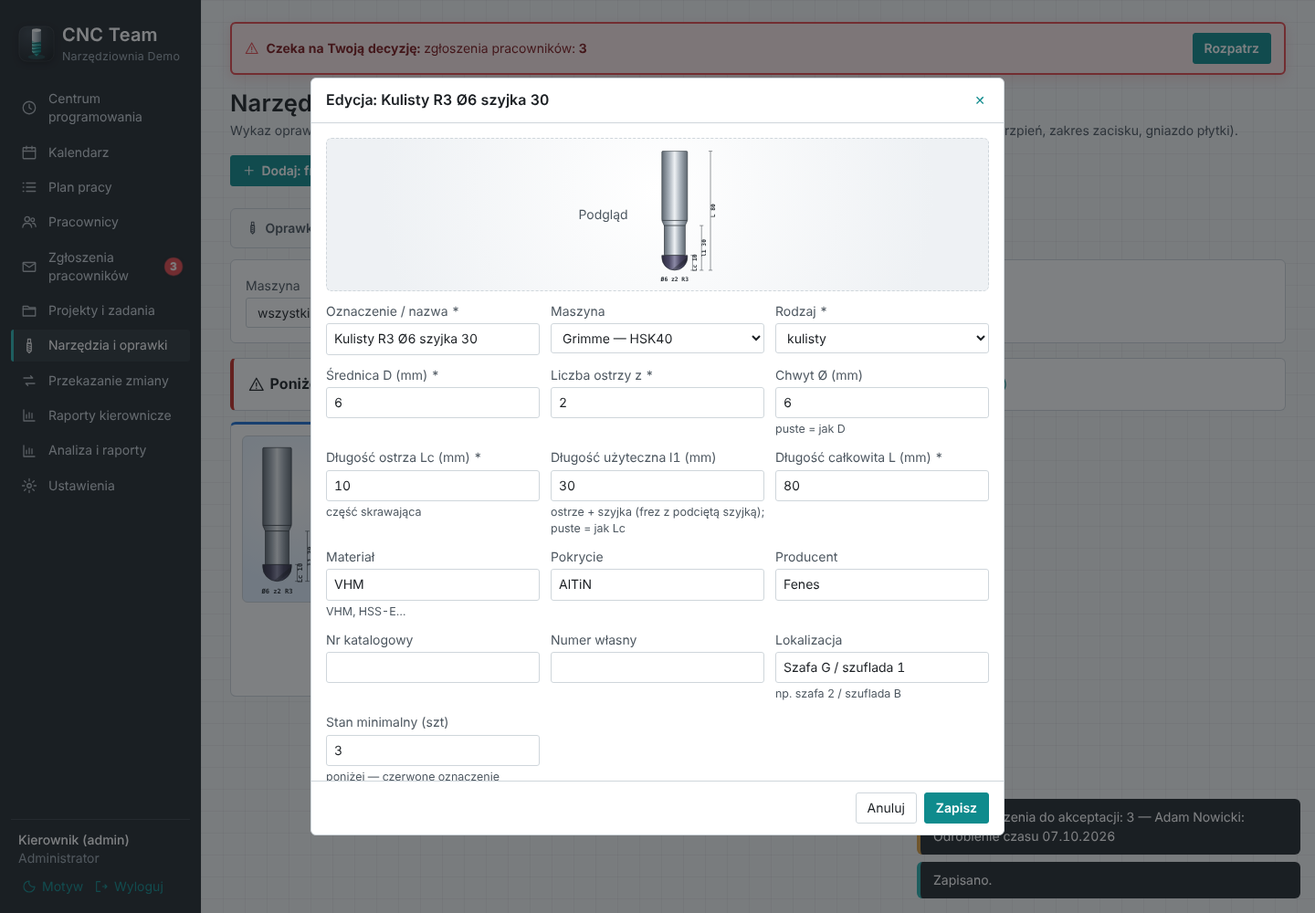
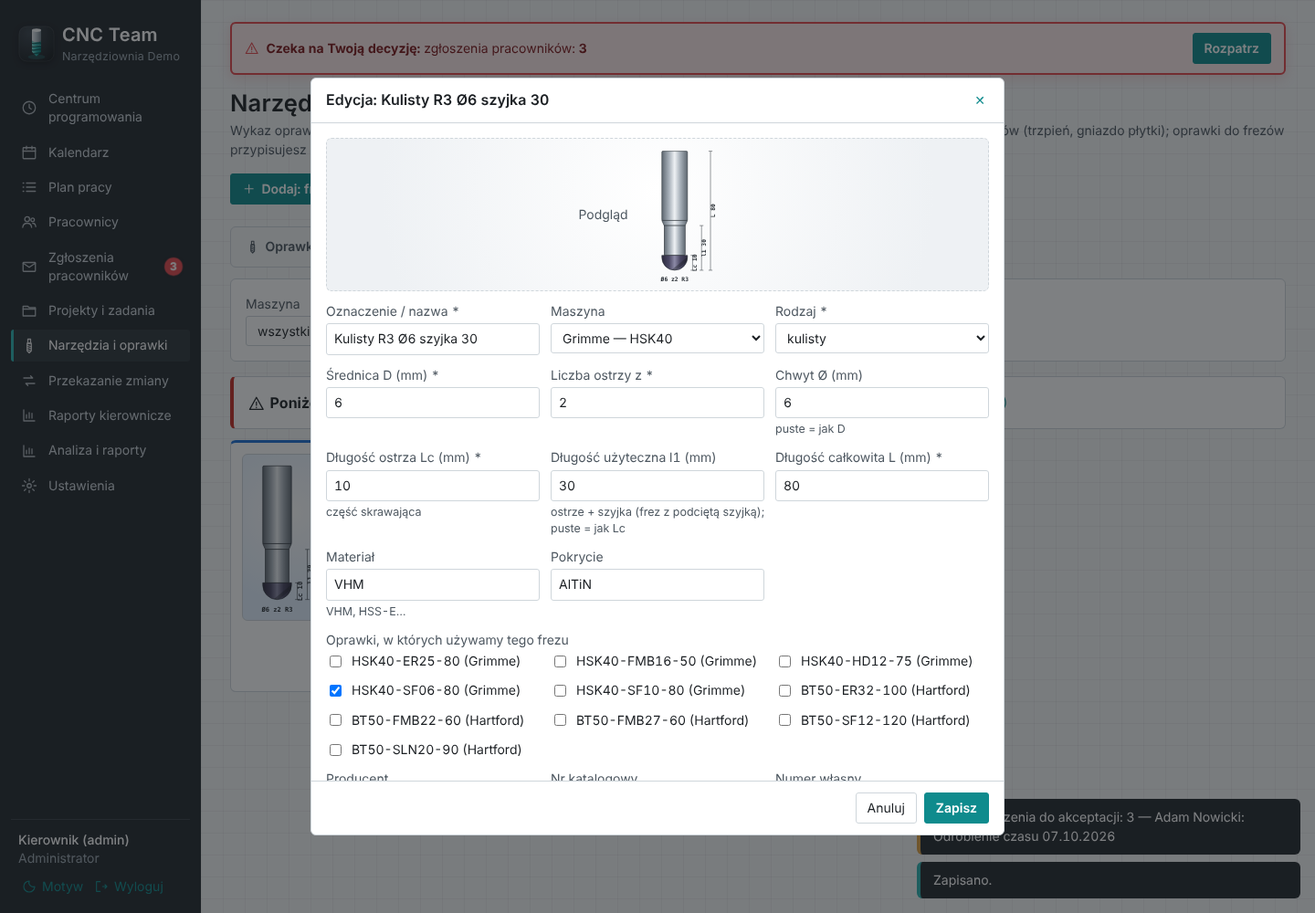
Frezy: oprawki przypisywane ręcznie zamiast automatycznego dopasowania (0.15.2)
Claude-Session: https://claude.ai/code/session_01Mgo9RDb6yKEqWF3PSmGbbJ

diff --git a/public/views-tools.js b/public/views-tools.js
@@ -300,7 +300,7 @@ VIEWS.narzedzia = async (main) => {
   const link = (patch) => { const n = new URLSearchParams(q); for (const [k, v] of Object.entries(patch)) { if (v) n.set(k, v); else n.delete(k); } return `#/narzedzia?${n}`; };
 
   main.innerHTML = head('Narzędzia i oprawki',
-    admin ? 'Wykaz oprawek, głowic, płytek i frezów z rysunkiem, stanem i tym, co do czego pasuje. Dopasowania liczone są z parametrów (trzpień, zakres zacisku, gniazdo płytki).'
+    admin ? 'Wykaz oprawek, głowic, płytek i frezów z rysunkiem, stanem i tym, co do czego pasuje. Głowice i płytki dobierane są z parametrów (trzpień, gniazdo płytki); oprawki do frezów przypisujesz ręcznie w edycji frezu.'
       : 'Wykaz narzędzi prowadzi kierownik — tu możesz sprawdzić parametry, stan i co do czego pasuje.',
     admin ? btn('addTool', `Dodaj: ${TOOL_KIND[kind].single.toLowerCase()}`) : '') +
     `<nav class="section-tabs" aria-label="Rodzaj narzędzi">${TOOL_TABS.map(([k, l]) => `<a href="${link({ rodzaj: k })}" class="${k === kind ? 'active' : ''}" ${k === kind ? 'aria-current="page"' : ''}>${icon('cutter')}<span>${esc(l)}</span><span class="count">${counts[k]}</span></a>`).join('')}</nav>
@@ -318,7 +318,7 @@ VIEWS.narzedzia = async (main) => {
     const fd = new FormData(e.target);
     location.hash = link({ maszyna: fd.get('maszyna'), szukaj: (fd.get('szukaj') || '').trim(), wycofane: fd.get('wycofane') });
   };
-  on('addTool', () => toolForm(kind));
+  on('addTool', () => toolForm(kind, null, list));
   $$('[data-tool]', main).forEach(el => el.addEventListener('click', (e) => { e.preventDefault(); const t = byId.get(Number(el.dataset.tool)); if (t) toolDetail(t, byId); }));
   $$('.tl-card', main).forEach(el => el.addEventListener('keydown', (e) => { if (e.key === 'Enter' && e.target === el) toolDetail(byId.get(Number(el.dataset.id)), byId); }));
 };
@@ -333,7 +333,7 @@ function toolCard(t) {
       <p class="small">${esc(toolKeyLine(t))}</p>
       <p class="small muted">${[t.manufacturer, t.machine_id ? machineShort(t.machine_id) : 'uniwersalne', t.location].filter(Boolean).map(esc).join(' · ')}</p>
       <div class="tl-stock">${stockTag(t)}${t.active ? '' : ` ${tag('wycofane', '', 'block')}`}</div>
-      ${fits.length ? `<div class="small tl-fits"><span class="muted">Pasuje do:</span> ${fits.slice(0, 4).map(f => `<button type="button" class="link" data-tool="${f.id}">${esc(f.name)}</button>`).join('')}${fits.length > 4 ? `<button type="button" class="link" data-tool="${t.id}">+${fits.length - 4} więcej</button>` : ''}</div>` : ''}
+      ${fits.length ? `<div class="small tl-fits"><span class="muted">${t.kind === 'frez' ? 'Oprawki:' : 'Pasuje do:'}</span> ${fits.slice(0, 4).map(f => `<button type="button" class="link" data-tool="${f.id}">${esc(f.name)}</button>`).join('')}${fits.length > 4 ? `<button type="button" class="link" data-tool="${t.id}">+${fits.length - 4} więcej</button>` : ''}</div>` : ''}
     </div>
   </article>`;
 }
@@ -360,10 +360,10 @@ function toolDetail(t, byId) {
           ${t.note ? `<p class="small">${esc(t.note)}</p>` : ''}
         </div>
       </div>
-      <h4>Pasuje do</h4>
+      <h4>${t.kind === 'frez' ? 'Przypisane oprawki' : 'Pasuje do'}</h4>
       ${groups.length ? groups.map(([l, a]) => `<div class="tl-fit-group"><span class="small muted">${esc(l)}</span><div class="tl-fit-row">${a.map(f => `<button type="button" class="tl-mini" data-open="${f.id}" title="${esc(f.name)}">${f.params ? drawTool(f, { w: f.kind === 'glowica' ? 120 : f.kind === 'frez' ? 34 : 56 }) : ''}<span class="small mono">${esc(f.name)}</span></button>`).join('')}</div></div>`).join('')
-        : `<p class="small muted">${t.kind === 'plytka' ? 'Żadna głowica w wykazie nie ma gniazda pasującego do tej płytki.' : t.kind === 'frez' ? 'Żadna oprawka w wykazie nie ma zakresu zacisku na ten chwyt.' : 'Brak dopasowań w wykazie.'}</p>`}
-      <p class="small muted">Dopasowanie jest liczone z parametrów wpisanych w wykazie — przed użyciem sprawdź katalog producenta i wysięg.</p>
+        : `<p class="small muted">${t.kind === 'plytka' ? 'Żadna głowica w wykazie nie ma gniazda pasującego do tej płytki.' : t.kind === 'frez' ? 'Nie przypisano oprawek — przypisuje kierownik w edycji frezu.' : 'Brak dopasowań w wykazie.'}</p>`}
+      <p class="small muted">${t.kind === 'frez' ? 'Oprawki do frezu są przypisane ręcznie.' : t.kind === 'plytka' ? 'Dopasowanie liczone z gniazda głowicy.' : `Głowice i płytki dobierane z parametrów (trzpień, chwyt, gniazdo)${t.kind === 'oprawka' ? '; frezy — przypisane ręcznie' : ''} — przed użyciem sprawdź katalog producenta i wysięg.`}</p>
     </div>
     <footer>${admin ? `<button type="button" data-act="edit">Edytuj</button><button type="button" data-act="in">${icon('plus')}Przyjęcie</button><button type="button" data-act="out">Wydanie / zużycie</button>${t.active ? '<button type="button" class="danger" data-act="off">Wycofaj</button>' : '<button type="button" data-act="on">Przywróć</button>'}` : ''}<button type="button" class="primary" data-close>Zamknij</button></footer></form>`;
   document.body.appendChild(dlg);
@@ -372,7 +372,7 @@ function toolDetail(t, byId) {
   dlg.addEventListener('cancel', () => dlg.remove());
   $$('[data-open]', dlg).forEach(b => b.addEventListener('click', () => { const n = byId.get(Number(b.dataset.open)); if (n) { close(); toolDetail(n, byId); } }));
   const act = (name, fn) => { const b = $(`[data-act="${name}"]`, dlg); if (b) b.addEventListener('click', () => { close(); fn(); }); };
-  act('edit', () => toolForm(t.kind, t));
+  act('edit', () => toolForm(t.kind, t, [...byId.values()]));
   act('in', () => stockForm(t, 1));
   act('out', () => stockForm(t, -1));
   act('off', () => confirmReason(`Wycofać z użytku: ${t.name}?`, 'Pozycja zniknie z wykazu dla zespołu (zostaje w historii i w widoku „pokaż wycofane”).', (reason) => post(`/tools/${t.id}`, { active: false, reason }, undefined, 'PUT'), 'Wycofaj'));
@@ -394,7 +394,7 @@ function stockForm(t, sign) {
   });
 }
 
-function toolForm(kind, t = null) {
+function toolForm(kind, t = null, all = []) {
   const p = (t && t.params) || {};
   const num = (name, label, extra = {}) => ({ name: `p_${name}`, label, type: 'number', step: 'any', value: p[name] ?? '', ...extra });
   const txt = (name, label, extra = {}) => ({ name: `p_${name}`, label, value: p[name] ?? '', ...extra });
@@ -428,11 +428,15 @@ function toolForm(kind, t = null) {
       num('r', 'Promień naroża r (mm)', { show: v => v.p_type === 'torusowy' }), num('angle', 'Kąt (°)', { show: v => v.p_type === 'fazownik' || v.p_type === 'wiertlo' }),
       txt('material', 'Materiał', { help: 'VHM, HSS-E…' }), txt('coating', 'Pokrycie')];
   }
+  // frez: oprawki przypisuje kierownik ręcznie (bez automatycznego dopasowania)
+  const holderOpts = all.filter(h => h.kind === 'oprawka' && h.active).map(h => [h.id, `${h.name}${h.machine_id ? ` (${machineShort(h.machine_id)})` : ''}`]);
+  const holderField = kind === 'frez' ? [{ name: 'holder_ids', label: 'Oprawki, w których używamy tego frezu', type: 'multi', wide: true, value: (t && t.holder_ids) || [], options: holderOpts }] : [];
   const fields = [
     { name: 'preview', type: 'info', html: '<div class="tl-preview" aria-live="polite"></div>' },
     { name: 'name', label: kind === 'plytka' ? 'Oznaczenie ISO płytki' : 'Oznaczenie / nazwa', required: true, value: t ? t.name : '', help: kind === 'plytka' ? 'np. APMT1604PDER-M2 — początek musi zgadzać się z gniazdem głowicy' : '' },
     { name: 'machine_id', label: 'Maszyna', type: 'select', value: t ? t.machine_id || '' : '', placeholder: '— uniwersalne —', options: machines },
     ...params,
+    ...holderField,
     { name: 'manufacturer', label: 'Producent', value: t ? t.manufacturer || '' : '' },
     { name: 'catalog_no', label: 'Nr katalogowy', value: t ? t.catalog_no || '' : '' },
     { name: 'code', label: 'Numer własny', value: t ? t.code || '' : '' },
@@ -461,7 +465,7 @@ function toolForm(kind, t = null) {
     },
     afterRender: (form) => form.dispatchEvent(new Event('change')),
     submit: (v, idem) => {
-      const body = { kind, name: v.name, machine_id: v.machine_id, manufacturer: v.manufacturer, catalog_no: v.catalog_no, code: v.code, location: v.location, note: v.note, min_qty: v.min_qty ?? 0, params: collect(v) };
+      const body = { ...(kind === 'frez' ? { holder_ids: (v.holder_ids || []).map(Number) } : {}), kind, name: v.name, machine_id: v.machine_id, manufacturer: v.manufacturer, catalog_no: v.catalog_no, code: v.code, location: v.location, note: v.note, min_qty: v.min_qty ?? 0, params: collect(v) };
       if (t) return post(`/tools/${t.id}`, { ...body, reason: v.reason }, idem, 'PUT');
       return post('/tools', { ...body, qty: v.qty ?? 0 }, idem);
     },

diff --git a/server/domain/tools.js b/server/domain/tools.js
@@ -1,8 +1,8 @@
 'use strict';
 // Narzędziownia: oprawki (BT50 — Hartford, HSK40 — Grimme), głowice frezujące, płytki i frezy.
 // Dopasowanie liczone z parametrów: głowica ↔ płytki (oznaczenie płytki zaczyna się od kodu gniazda głowicy),
-// oprawka trzpieniowa ↔ głowica (ten sam trzpień), oprawka zaciskowa ↔ frez lub głowica z chwytem (średnica chwytu w zakresie oprawki);
-// oprawka i narzędzie przypisane do różnych maszyn nie są łączone.
+// oprawka trzpieniowa ↔ głowica (ten sam trzpień), oprawka zaciskowa ↔ głowica z chwytem (średnica chwytu w zakresie oprawki);
+// oprawka i głowica przypisane do różnych maszyn nie są łączone. Frezy ↔ oprawki — tylko ręczne przypisanie przez kierownika.
 const T = require('../time');
 const { bad, notFound, audit, reqStr, reqInt, oneOf } = require('../core');
 
@@ -65,8 +65,9 @@ function normParams(kind, p = {}) {
 
 function rowOut(r) { return { ...r, params: JSON.parse(r.params || '{}'), active: !!r.active, low: r.qty < r.min_qty }; }
 
-// Dopasowania liczone na żywo z parametrów
-function compat(list) {
+// Dopasowania: głowica ↔ oprawka i głowica ↔ płytka liczone z parametrów;
+// frez ↔ oprawka wyłącznie z ręcznego przypisania (tabela tool_links) — bez automatycznego dopasowania
+function compat(list, links = []) {
   const holders = list.filter(t => t.kind === 'oprawka'), heads = list.filter(t => t.kind === 'glowica');
   const inserts = list.filter(t => t.kind === 'plytka'), mills = list.filter(t => t.kind === 'frez');
   const fitsShank = (h, d) => d && h.params.type !== 'trzpieniowa' && h.params.clamp_min !== null && d >= h.params.clamp_min - 1e-6 && d <= (h.params.clamp_max ?? h.params.clamp_min) + 1e-6;
@@ -76,18 +77,19 @@ function compat(list) {
   // narzędzie przypisane do innej maszyny niż oprawka nie jest do niej proponowane (płytki są wspólne)
   const sameMachine = (a, b) => !a.machine_id || !b.machine_id || a.machine_id === b.machine_id;
   const headFitsHolder = (h, g) => sameMachine(h, g) && (fitsArbor(h, g) || (g.params.shank && fitsShank(h, g.params.shank)));
-  const millFitsHolder = (h, m) => sameMachine(h, m) && fitsShank(h, m.params.shank || m.params.D);
+  const linked = new Set(links.map(l => `${l.mill_id}:${l.holder_id}`));
+  const millFitsHolder = (h, m) => linked.has(`${m.id}:${h.id}`);
   for (const t of list) {
     if (t.kind === 'oprawka') t.fits = [...heads.filter(g => headFitsHolder(t, g)), ...mills.filter(m => millFitsHolder(t, m))].map(ref);
     if (t.kind === 'glowica') t.fits = [...holders.filter(h => headFitsHolder(h, t)), ...inserts.filter(p => insertFits(t, p))].map(ref);
     if (t.kind === 'plytka') t.fits = heads.filter(g => insertFits(g, t)).map(ref);
-    if (t.kind === 'frez') t.fits = holders.filter(h => millFitsHolder(h, t)).map(ref);
+    if (t.kind === 'frez') { t.fits = holders.filter(h => millFitsHolder(h, t)).map(ref); t.holder_ids = t.fits.map(f => f.id); } // tylko oprawki widoczne na liście (bez wycofanych dla nie-kierownika)
   }
   return list;
 }
 
 function listTools(db, { all = false } = {}) {
-  return compat(db.all(`SELECT * FROM tools WHERE (? = 1 OR active = 1) ORDER BY kind, machine_id, name`, all ? 1 : 0).map(rowOut));
+  return compat(db.all(`SELECT * FROM tools WHERE (? = 1 OR active = 1) ORDER BY kind, machine_id, name`, all ? 1 : 0).map(rowOut), db.all('SELECT mill_id, holder_id FROM tool_links'));
 }
 
 function saveTool(db, user, body, id) {
@@ -118,22 +120,41 @@ function saveTool(db, user, body, id) {
       if (m.length === 1) d.machine_id = m[0].id;
     }
   }
+  // frez: oprawki przypisane ręcznie (lista id aktywnych oprawek); nieprzesłane przy edycji — bez zmian
+  let holderIds = null;
+  if (has('holder_ids') && kind !== 'frez') throw bad('Oprawki przypisuje się tylko do frezów.');
+  const oldLinks = old ? db.all('SELECT holder_id FROM tool_links WHERE mill_id=? ORDER BY holder_id', id).map(l => l.holder_id) : [];
+  if (kind === 'frez' && has('holder_ids')) {
+    if (!Array.isArray(body.holder_ids) || body.holder_ids.length > 200 || !body.holder_ids.every(x => Number.isInteger(typeof x === 'string' && /^\d+$/.test(x) ? Number(x) : x))) throw bad('Oprawki: lista numerów oprawek.');
+    holderIds = [...new Set(body.holder_ids.map(Number))];
+    for (const hid of holderIds) {
+      const h = db.get(`SELECT kind, active, name FROM tools WHERE id=?`, hid);
+      if (!h || h.kind !== 'oprawka') throw bad('Przypisać można tylko oprawki z wykazu.');
+      if (!h.active && !oldLinks.includes(hid)) throw bad(`Oprawka ${h.name} jest wycofana.`);
+    }
+    // przypisania do wycofanych oprawek (niewidocznych w formularzu) zostają — wrócą po przywróceniu oprawki
+    for (const hid of oldLinks) if (!holderIds.includes(hid) && !db.get('SELECT active FROM tools WHERE id=?', hid).active) holderIds.push(hid);
+    holderIds.sort((a, b) => a - b);
+  }
   const action = !old ? 'utworzenie' : old.active && !d.active ? 'wycofanie' : !old.active && d.active ? 'przywrocenie' : 'edycja';
   if (action === 'wycofanie') reqStr(body.reason, 'Powód wycofania z użytku');
   if (action === 'przywrocenie') reqStr(body.reason, 'Powód przywrócenia');
   return db.tx(() => {
     const now = T.nowIso();
+    const setLinks = (mid) => { db.run('DELETE FROM tool_links WHERE mill_id=?', mid); for (const hid of holderIds) db.run('INSERT INTO tool_links(mill_id, holder_id) VALUES (?,?)', mid, hid); };
     if (old) {
       const cols = Object.keys(d);
       db.run(`UPDATE tools SET ${cols.map(c => `${c}=?`).join(',')}, updated_at=? WHERE id=?`, ...cols.map(c => d[c]), now, id);
-      audit(db, user, 'tool', id, action, old, d, body.reason);
+      if (holderIds) setLinks(id);
+      audit(db, user, 'tool', id, action, kind === 'frez' ? { ...old, oprawki: oldLinks } : old, kind === 'frez' ? { ...d, oprawki: holderIds || oldLinks } : d, body.reason);
       return { id };
     }
     const qty = reqInt(body.qty ?? 0, 'Stan', { min: 0, max: 100000 });
     const cols = Object.keys(d);
     const r = db.run(`INSERT INTO tools(${cols.join(',')},qty,created_at,updated_at) VALUES (${cols.map(() => '?').join(',')},?,?,?)`, ...cols.map(c => d[c]), qty, now, now);
     const nid = Number(r.lastInsertRowid);
-    audit(db, user, 'tool', nid, 'utworzenie', null, { ...d, qty });
+    if (holderIds) setLinks(nid);
+    audit(db, user, 'tool', nid, 'utworzenie', null, { ...d, qty, ...(holderIds ? { oprawki: holderIds } : {}) });
     return { id: nid };
   });
 }

diff --git a/test/tools.test.js b/test/tools.test.js
@@ -29,16 +29,17 @@ function world() {
 const byName = (list) => Object.fromEntries(list.map(t => [t.name, t]));
 const fitNames = (t) => t.fits.map(f => f.name).sort();
 
-test('narzędzia: dopasowania z parametrów (trzpień, zakres zacisku, gniazdo płytki, maszyna); stan poniżej minimum', () => {
+test('narzędzia: dopasowania z parametrów (trzpień, chwyt głowicy, gniazdo płytki, maszyna); frezy bez automatycznego dopasowania; stan poniżej minimum', () => {
   const w = world();
   const t = byName(Tools.listTools(w.db));
   assert.deepEqual(fitNames(t['BT50-FMB22']), ['Głowica Ø63']);
   assert.deepEqual(fitNames(t['Głowica Ø63']), ['APMT1604PDER-M2', 'BT50-FMB22']);
   assert.deepEqual(fitNames(t['BT50-SLN20']), ['Frez Ø25 chwyt 20'], 'Weldon Ø20 ↔ głowica z chwytem Ø20');
   assert.deepEqual(fitNames(t['Frez Ø25 chwyt 20']), ['BT50-ER32', 'BT50-SLN20', 'apmt1135pder'], 'gniazdo płytki bez rozróżniania wielkości liter i spacji');
-  assert.deepEqual(fitNames(t['VHM Ø6']), ['BT50-ER32', 'HSK40-SF06'], 'chwyt = D, gdy nie podano');
-  assert.deepEqual(fitNames(t['Kulisty Ø6 (Hartford)']), ['BT50-ER32'], 'frez przypisany do Hartforda nie jest łączony z oprawką Grimme');
-  assert.deepEqual(fitNames(t['VHM Ø25']), [], 'Ø25 poza zakresem ER32 (3–20)');
+  // frezy: oprawki nie są dobierane automatycznie (zespół przypisuje sam)
+  assert.deepEqual(fitNames(t['VHM Ø6']), []);
+  assert.deepEqual(fitNames(t['BT50-ER32']), ['Frez Ø25 chwyt 20'], 'oprawka bez automatycznie dobranych frezów');
+  assert.deepEqual(fitNames(t['HSK40-SF06']), []);
   assert.equal(t.apmt1135pder.low, true); assert.equal(t['APMT1604PDER-M2'].low, false);
 });
 
@@ -70,7 +71,6 @@ test('narzędzia: edycja częściowa nie kasuje pól; oprawka zgodna z wrzecione
   const auto = Tools.saveTool(w.db, w.admin, { kind: 'oprawka', name: 'HSK-A40 ER16', params: { interface: 'HSK-A40', type: 'tulejkowa', clamp_min: 1, clamp_max: 10 } }).id;
   assert.equal(w.db.get('SELECT machine_id FROM tools WHERE id=?', auto).machine_id, G, 'przypisana wg interfejsu');
   const t = byName(Tools.listTools(w.db));
-  assert.equal(fitNames(t['Kulisty Ø6 (Hartford)']).includes('HSK-A40 ER16'), false);
   throwsStatus(assert, () => Tools.saveTool(w.db, w.admin, { kind: 'glowica', name: 'x', params: { D: 50, z: 2.5 } }), 400, /całkowita/);
   throwsStatus(assert, () => Tools.saveTool(w.db, w.admin, { active: 'false' }, w.ids.vhm6), 400, /aktywne/);
   throwsStatus(assert, () => Tools.saveTool(w.db, w.admin, { kind: 'frez', name: 'x', params: { type: 'torusowy', D: 6, r: 4, z: 4, Lc: 12, L: 57 } }), 400, /połowa/);
@@ -101,6 +101,35 @@ test('narzędzia: frez definiują liczba ostrzy, długość ostrza i długość 
   throwsStatus(assert, () => Tools.saveTool(w.db, w.admin, { params: { type: 'walcowo-czolowy', D: 6 } }, old), 400, /ostrzy/);
   // fazownik — długość ostrza nieobowiązkowa
   Tools.saveTool(w.db, w.admin, { kind: 'frez', name: 'Faz', params: { type: 'fazownik', D: 10, z: 4, L: 60, angle: 90 } });
+});
+
+test('narzędzia: ręczne przypisanie frezu do oprawek (w obie strony, w historii); tylko aktywne oprawki; edycja bez listy nie zmienia przypisań', () => {
+  const w = world();
+  throwsStatus(assert, () => Tools.saveTool(w.db, w.admin, { holder_ids: [w.ids.head63] }, w.ids.vhm6), 400, /tylko oprawki/);
+  throwsStatus(assert, () => Tools.saveTool(w.db, w.admin, { holder_ids: 'x' }, w.ids.vhm6), 400);
+  Tools.saveTool(w.db, w.admin, { holder_ids: [w.ids.sf6g, w.ids.er32, w.ids.er32] }, w.ids.vhm6);
+  let t = byName(Tools.listTools(w.db));
+  assert.deepEqual(fitNames(t['VHM Ø6']), ['BT50-ER32', 'HSK40-SF06']);
+  assert.deepEqual(t['VHM Ø6'].holder_ids.sort(), [w.ids.er32, w.ids.sf6g].sort());
+  assert.deepEqual(fitNames(t['HSK40-SF06']), ['VHM Ø6']);
+  const a = w.db.get(`SELECT old_value, new_value FROM audit_log WHERE entity='tool' AND entity_id=? ORDER BY id DESC LIMIT 1`, String(w.ids.vhm6));
+  assert.match(a.new_value, /oprawki/);
+  Tools.saveTool(w.db, w.admin, { location: 'Szafa 1' }, w.ids.vhm6);
+  assert.equal(byName(Tools.listTools(w.db))['VHM Ø6'].fits.length, 2, 'edycja bez listy oprawek nie kasuje przypisań');
+  Tools.saveTool(w.db, w.admin, { holder_ids: [w.ids.sf6g] }, w.ids.vhm6);
+  assert.deepEqual(fitNames(byName(Tools.listTools(w.db))['VHM Ø6']), ['HSK40-SF06']);
+  Tools.saveTool(w.db, w.admin, { active: false, reason: 'pęknięta' }, w.ids.sf6g);
+  assert.deepEqual(fitNames(byName(Tools.listTools(w.db))['VHM Ø6']), [], 'wycofana oprawka nie jest pokazywana');
+  assert.deepEqual(byName(Tools.listTools(w.db))['VHM Ø6'].holder_ids, [], 'bez numerów wycofanych oprawek');
+  // edycja frezu z listą bez wycofanej oprawki nie kasuje przypisania do niej; po przywróceniu wraca
+  Tools.saveTool(w.db, w.admin, { holder_ids: [w.ids.er32] }, w.ids.vhm6);
+  Tools.saveTool(w.db, w.admin, { active: true, reason: 'naprawiona' }, w.ids.sf6g);
+  assert.deepEqual(fitNames(byName(Tools.listTools(w.db))['VHM Ø6']), ['BT50-ER32', 'HSK40-SF06']);
+  // nowa wycofana oprawka — odrzucona
+  Tools.saveTool(w.db, w.admin, { active: false, reason: 'zgubiona' }, w.ids.fmb22);
+  throwsStatus(assert, () => Tools.saveTool(w.db, w.admin, { holder_ids: [w.ids.er32, w.ids.fmb22] }, w.ids.vhm6), 400, /wycofana/);
+  throwsStatus(assert, () => Tools.saveTool(w.db, w.admin, { holder_ids: [true] }, w.ids.vhm6), 400, /numerów/);
+  throwsStatus(assert, () => Tools.saveTool(w.db, w.admin, { holder_ids: [w.ids.er32] }, w.ids.head63), 400, /tylko do frezów/);
 });
 
 test('narzędzia: przyjęcie / wydanie z powodem w historii, stan nie ujemny, wycofanie wymaga powodu', () => {

diff --git a/scripts/seed-lib.js b/scripts/seed-lib.js
@@ -276,6 +276,15 @@ function seedTools(db, admin) {
   add('frez', 'Fazownik 90° Ø12', null, { type: 'fazownik', D: 12, z: 4, shank: 12, L: 60, angle: 90, material: 'VHM', coating: 'TiN' }, { qty: 2, min_qty: 1, manufacturer: 'Fenes', location: 'Szafa frezów 2' });
   add('frez', 'Wiertło VHM Ø8,5', null, { type: 'wiertlo', D: 8.5, z: 2, shank: 10, Lc: 40, L: 89, angle: 140, material: 'VHM', coating: 'TiAlN' }, { qty: 3, min_qty: 2, manufacturer: 'Fenes', location: 'Szafa frezów 2' });
   add('frez', 'Frez do gwintów M10', null, { type: 'gwintownik', D: 7.8, z: 3, shank: 10, Lc: 22, L: 70, material: 'VHM', coating: 'TiCN' }, { qty: 1, min_qty: 1, manufacturer: 'Fenes', location: 'Szafa frezów 2' });
+  // oprawki do frezów — przypisane ręcznie (jak w zespole)
+  const id = (name) => db.get('SELECT id FROM tools WHERE name=?', name).id;
+  const link = (mill, holders) => Tools.saveTool(db, admin, { holder_ids: holders.map(id) }, id(mill));
+  link('VHM Ø6 z4', ['HSK40-SF06-80', 'BT50-ER32-100']);
+  link('VHM Ø10 z4', ['HSK40-SF10-80']);
+  link('VHM Ø12 z3 długi', ['BT50-SF12-120']);
+  link('Kulisty R3 Ø6 szyjka 30', ['HSK40-SF06-80']);
+  link('Torusowy Ø10 R1', ['HSK40-SF10-80']);
+  link('Wiertło VHM Ø8,5', ['BT50-ER32-100']);
 }
 
 module.exports = { seedDemo, DEMO_PASSWORD };

diff --git a/public/sw.js b/public/sw.js
@@ -2,7 +2,7 @@
 // Zasada prywatności: w pamięci telefonu przechowywany jest WYŁĄCZNIE szkielet aplikacji (HTML/CSS/JS/ikony).
 // Odpowiedzi API (/api/*) — dane osobowe, absencje, rozliczenia — nigdy nie są buforowane.
 'use strict';
-const VERSION = 'cnc-team-shell-v25';
+const VERSION = 'cnc-team-shell-v26';
 const SHELL = [
   '/', '/index.html', '/tokens.css', '/app.css', '/icons.js', '/brand.js', '/charts.js', '/ui.js', '/app.js', '/views-people.js', '/views-projects.js',
   '/views-reports.js', '/views-requests.js', '/views-analytics.js', '/views-bundles.js', '/views-tools.js', '/views-plan.js', '/pwa.js', '/manifest.webmanifest', '/favicon.svg', '/icons/icon-192.png', '/icons/icon-512.png',

diff --git a/scripts/screenshots-tools.py b/scripts/screenshots-tools.py
@@ -33,6 +33,9 @@ with sync_playwright() as p:
     if pg.locator("dialog[open]").count(): errors.append("dodanie nie zapisało: " + pg.inner_text("dialog[open] .form-error"))
     pg.goto(base + "/#/narzedzia?rodzaj=frez&szukaj=szyjka"); pg.wait_for_timeout(500); pg.click(".tl-card .tl-pic >> nth=0"); pg.wait_for_selector("dialog[open]"); shot(pg, "118-narzedzia-frez-wymiary", full=False)
     pg.click("dialog[open] [data-act=edit]"); pg.wait_for_selector("dialog[open] .tl-preview svg"); shot(pg, "119-narzedzia-frez-formularz", full=False)
+    pg.locator("dialog[open] [data-f=holder_ids]").scroll_into_view_if_needed(); pg.wait_for_timeout(200); shot(pg, "120-narzedzia-frez-oprawki", full=False)
+    if pg.locator("dialog[open] input[name=holder_ids]").count() < 5: errors.append("brak listy oprawek w formularzu frezu")
+    if pg.locator("dialog[open] input[name=holder_ids]:checked").count() != 1: errors.append("zaznaczone przypisanie nie wczytane")
     ctx.close()
     ctx, pg = mk(b, True); login(pg, "adam")
     shot(pg, "116-narzedzia-programista-telefon", "#/narzedzia?rodzaj=frez", full=False)

diff --git a/docs/DATA_MODEL.md b/docs/DATA_MODEL.md
@@ -70,7 +70,7 @@ Saldo wyjścia = minuty − Σ przypisań z **zatwierdzonych** odrabiań. Przypi
 |---|---|
 | `tools` | Pozycja wykazu: rodzaj (`oprawka`, `glowica`, `plytka`, `frez`), oznaczenie, numer własny, producent, nr katalogowy, maszyna (lub uniwersalne), parametry rodzaju (JSON), stan, stan minimalny, lokalizacja, uwagi, aktywna |
 
-Parametry: oprawka — interfejs (zgodny z `machines.tool_holder`), rodzaj (tulejkowa, Weldon, termo, hydrauliczna, trzpieniowa), zakres zacisku albo trzpień, tulejka, wysięg, maks. obroty; głowica — D, z, gniazdo płytki, kąt przystawienia, maks. ap, wysokość H, trzpień lub chwyt; płytka — kształt ISO, wielkość, promień, krawędzie, gatunek, pokrycie, materiały; frez — rodzaj, D, **z, długość ostrza Lc, długość całkowita L (obowiązkowe; Lc nie dla fazownika)**, długość użyteczna z szyjką l1, chwyt, promień (torusowy), kąt (fazownik / wiertło), materiał, pokrycie. Dopasowania nie są zapisywane — liczone przy odczycie. Zmiany stanu, edycje, wycofanie i przywrócenie — w historii (`audit_log`, encja `tool`) z powodem.
+Parametry: oprawka — interfejs (zgodny z `machines.tool_holder`), rodzaj (tulejkowa, Weldon, termo, hydrauliczna, trzpieniowa), zakres zacisku albo trzpień, tulejka, wysięg, maks. obroty; głowica — D, z, gniazdo płytki, kąt przystawienia, maks. ap, wysokość H, trzpień lub chwyt; płytka — kształt ISO, wielkość, promień, krawędzie, gatunek, pokrycie, materiały; frez — rodzaj, D, **z, długość ostrza Lc, długość całkowita L (obowiązkowe; Lc nie dla fazownika)**, długość użyteczna z szyjką l1, chwyt, promień (torusowy), kąt (fazownik / wiertło), materiał, pokrycie. Dopasowania głowica ↔ oprawka / płytka nie są zapisywane — liczone przy odczycie. Frezy ↔ oprawki — `tool_links` (migracja 013): przypisanie ręczne przez kierownika (frez, oprawka). Zmiany stanu, edycje, wycofanie i przywrócenie — w historii (`audit_log`, encja `tool`) z powodem.
 
 ## Historia i integralność
 

diff --git a/docs/TESTS.md b/docs/TESTS.md
@@ -76,6 +76,9 @@ Zrzuty: `docs/screenshots/50…66` (kierownik, pracownik na komputerze i telefon
 ### Runda 19 — dane frezu: ostrza i długości (12.10.2026)
 **64 / 64 zaliczonych.** Nowy test: liczba ostrzy z, długość ostrza Lc i długość całkowita L obowiązkowe (Lc nieobowiązkowe dla fazownika), Lc ≤ L, długość użyteczna z szyjką l1 między Lc a L; pozycje zapisane wcześniej bez tych danych można wycofać, przywrócić i zmienić ich stan bez uzupełniania (edycja parametrów wymaga uzupełnienia). Rysunek frezu z linią wymiarową Lc / l1 / L i szyjką. Przegląd niezależny: 6 uwag, poprawione. Zrzuty `118`, `119`.
 
+### Runda 20 — frezy przypisywane do oprawek ręcznie (13.10.2026)
+**65 / 65 zaliczonych.** Na prośbę kierownika usunięte automatyczne dopasowanie frez ↔ oprawka (po średnicy chwytu); kierownik zaznacza oprawki w edycji frezu (tabela `tool_links`, migracja 013). Test: przypisanie widoczne w obie strony i zapisane w historii; tylko oprawki z wykazu i tylko do frezów; edycja bez listy nie zmienia przypisań; przypisanie do oprawki wycofanej zostaje (wraca po przywróceniu), nowej wycofanej nie można dodać; programista nie widzi numerów wycofanych oprawek. Głowice ↔ oprawki i płytki — nadal z parametrów. Przegląd niezależny: 6 uwag, 5 poprawionych; świadomie bez blokady „frez Hartforda w oprawce Grimme” — przypisanie należy do zespołu. Zrzuty `113`, `120`.
+
 ## Pokrycie wymaganych scenariuszy
 
 | Wymagany scenariusz | Test (plik → nazwa) |

diff --git a/docs/LIMITATIONS.md b/docs/LIMITATIONS.md
@@ -18,7 +18,7 @@
 - Przerwa niewliczana jest odejmowana tylko od pełnej zmiany; przy wyjściu w trakcie zmiany liczy się rzeczywisty czas nieobecności.
 - Wyszukiwanie/filtrowanie listy zdarzeń po maszynie i projekcie dotyczy przekazań zmian (nieobecności nie są przypisane do maszyn).
 - Widok do wydruku/PDF korzysta z funkcji drukowania przeglądarki („Zapisz jako PDF”).
-- Narzędzia i oprawki: rysunki są schematyczne (generowane z parametrów), nie są rysunkami katalogowymi; dopasowanie liczone z wpisanych parametrów (trzpień, zakres zacisku, gniazdo płytki, interfejs maszyny) — nie sprawdza wysięgu, kolizji ani danych skrawania. Stan magazynowy prowadzony ręcznie (przyjęcie / wydanie), bez powiązania z zamówieniami i bez przypisania narzędzi do programów NC.
+- Narzędzia i oprawki: rysunki są schematyczne (generowane z parametrów), nie są rysunkami katalogowymi; dopasowanie głowic i płytek liczone z wpisanych parametrów (trzpień, chwyt, gniazdo płytki, interfejs maszyny), oprawki do frezów przypisywane ręcznie — nie sprawdza wysięgu, kolizji ani danych skrawania. Stan magazynowy prowadzony ręcznie (przyjęcie / wydanie), bez powiązania z zamówieniami i bez przypisania narzędzi do programów NC.
 - Zrzuty ekranów wymagają opcjonalnego Pythona + Playwright (`scripts/screenshots.py`) — nie są potrzebne do działania aplikacji.
 
 ## Serwer firmowy i dostęp z domu
